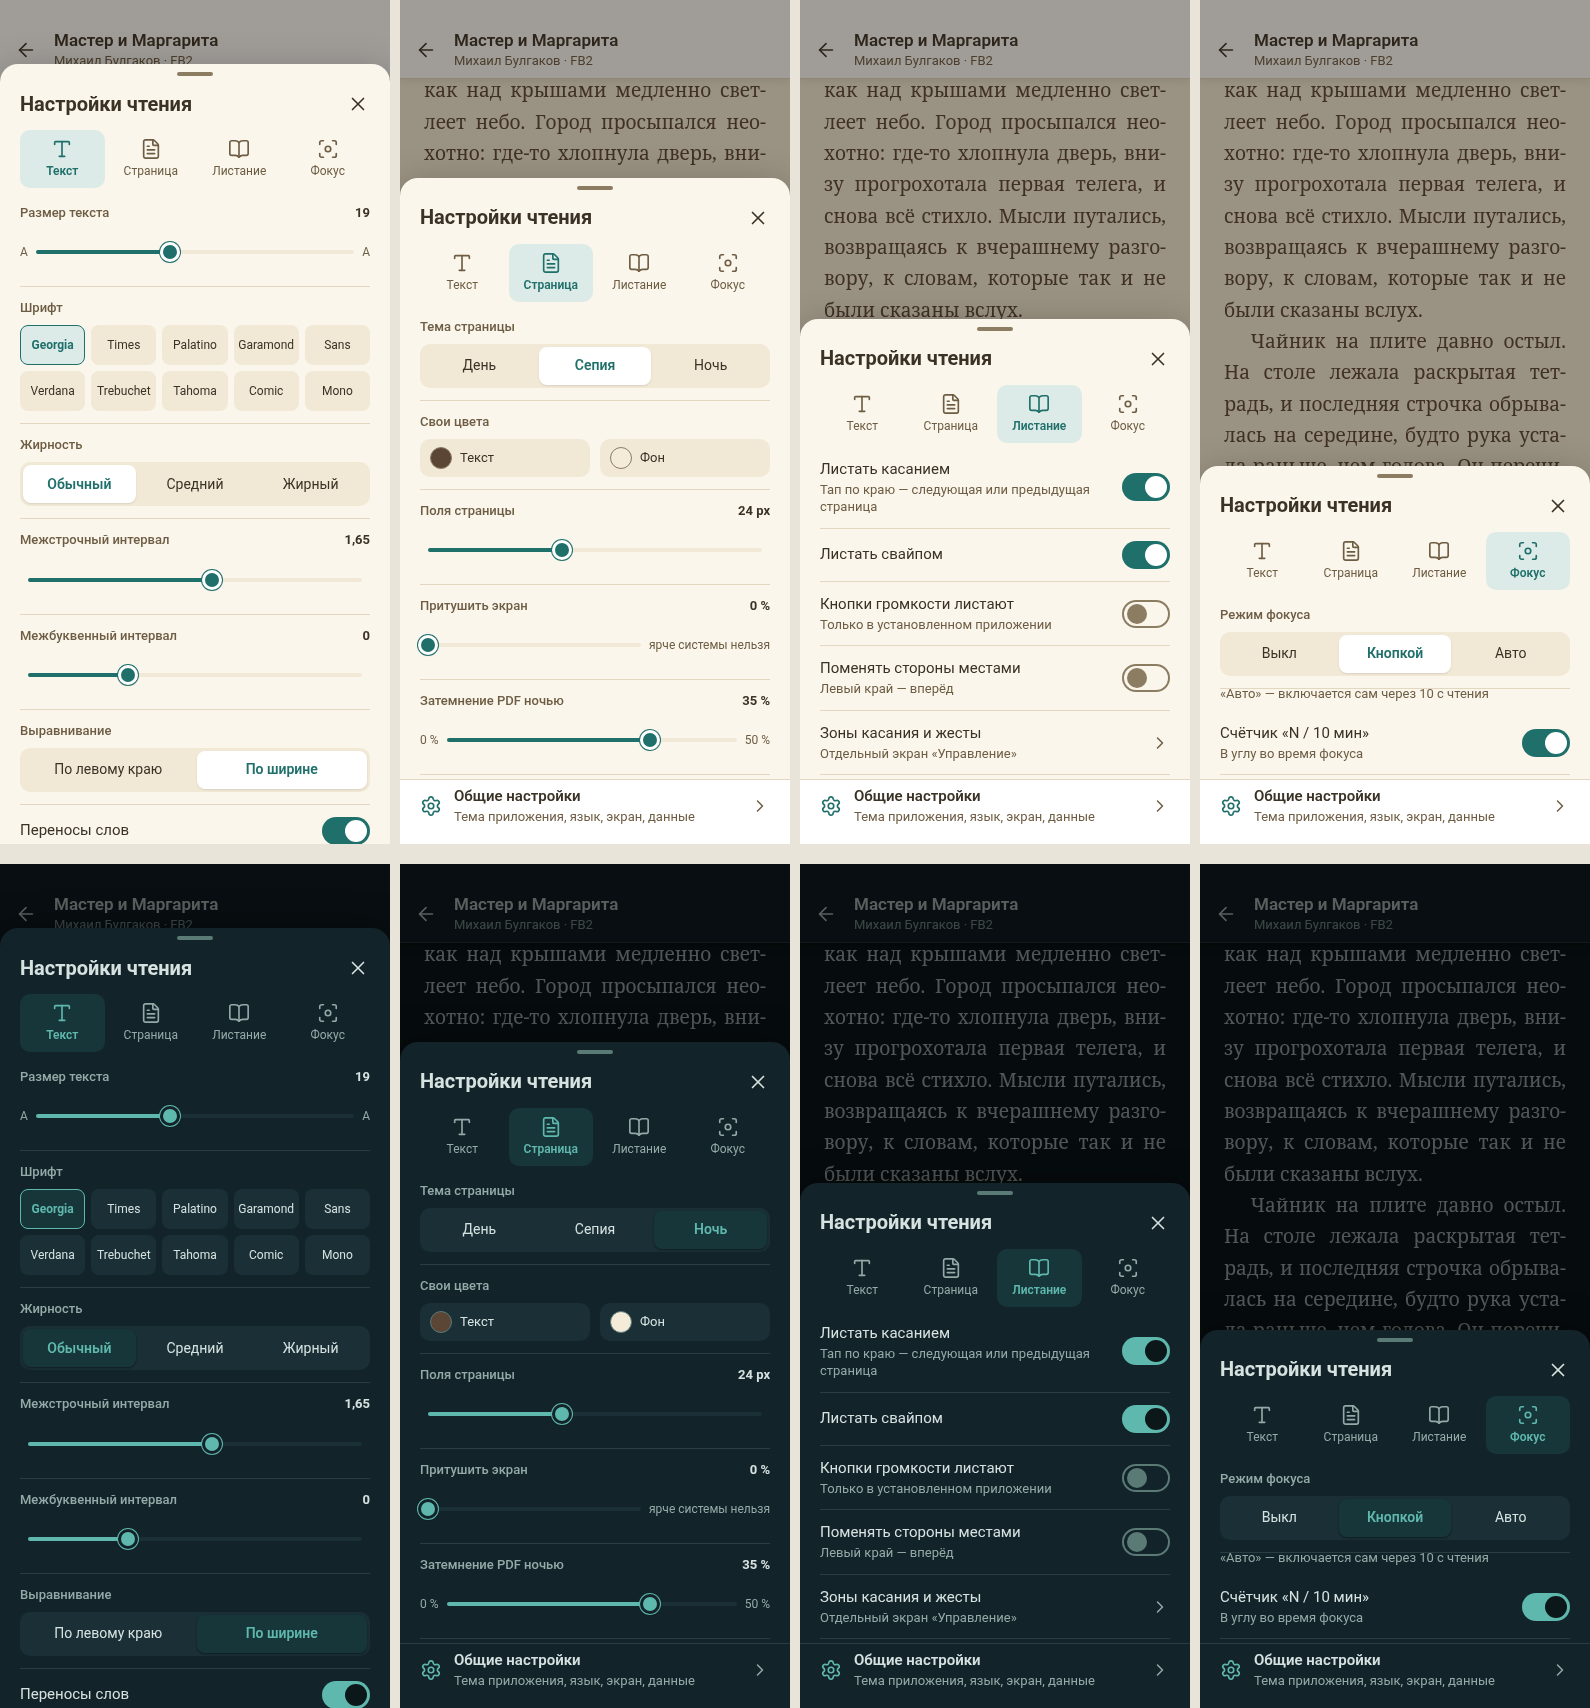
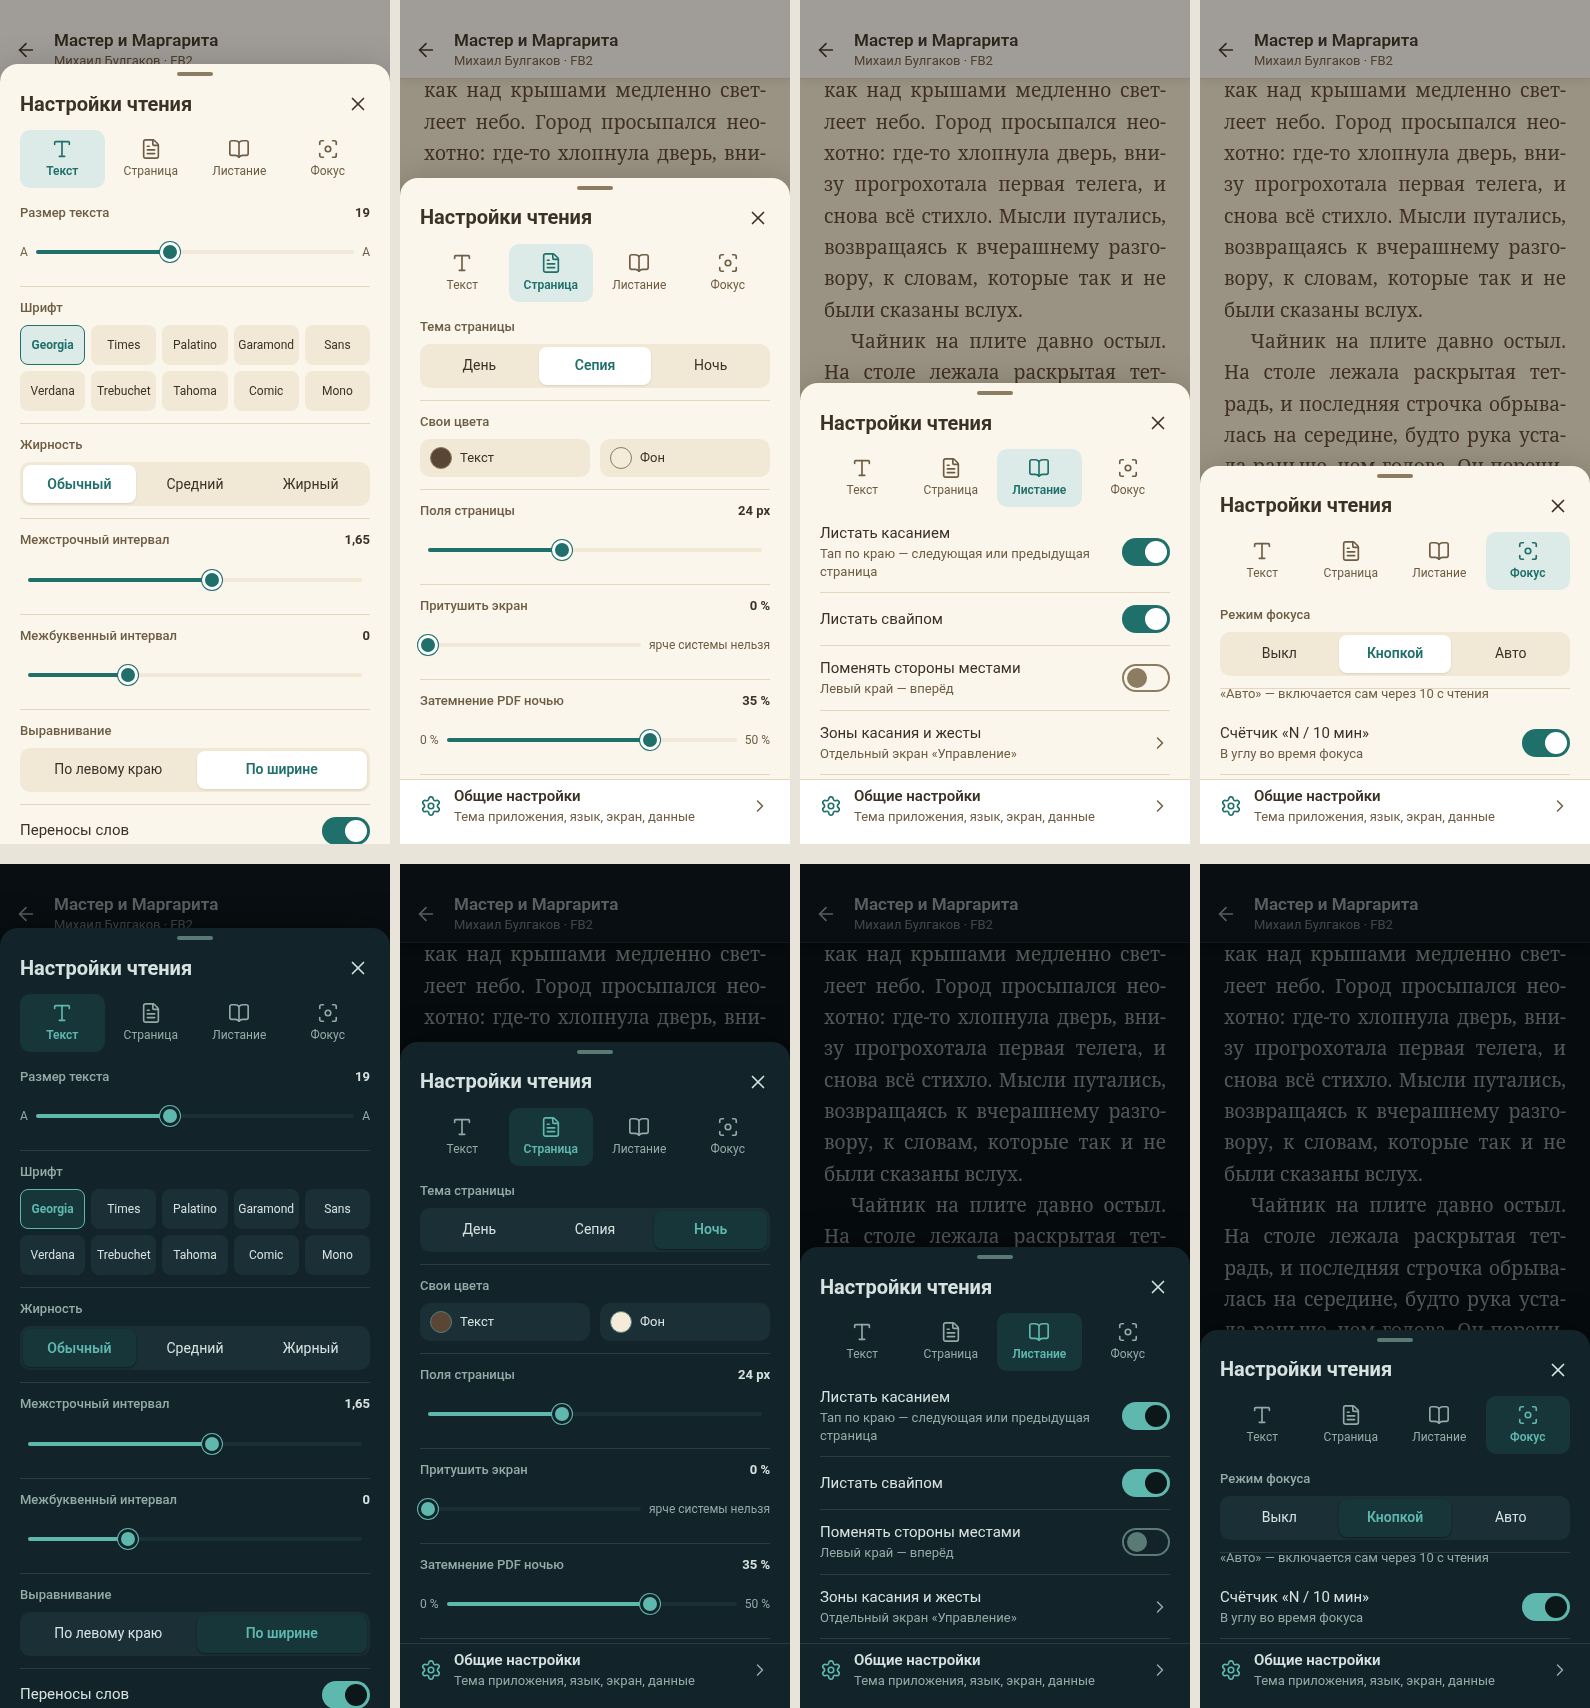
ui: убран фиктивный пункт «Кнопки громкости» (nav.btns в данных остаётся)

Changed region(s): [[0.4931, 0.1862, 0.7704, 0.3724], [0.4931, 0.6827, 0.7704, 0.8689], [0.7088, 0.7758, 0.7396, 0.8999]]

diff --git a/handoff/stage1-final/src/sf-tab-nav-day.html b/handoff/stage1-final/src/sf-tab-nav-day.html
@@ -43,7 +43,7 @@
   <path d="M17 3h2a2 2 0 0 1 2 2v2" />
   <path d="M21 17v2a2 2 0 0 1-2 2h-2" />
   <path d="M7 21H5a2 2 0 0 1-2-2v-2" />
-</svg><span style="font-size:0.75rem">Фокус</span></div></div><div class="sec srow"><div class="tx">Листать касанием<small>Тап по краю — следующая или предыдущая страница</small></div><div class="tg"></div></div><div class="sec srow"><div class="tx">Листать свайпом</div><div class="tg"></div></div><div class="sec srow"><div class="tx">Кнопки громкости листают<small>Только в установленном приложении</small></div><div class="tg off"></div></div><div class="sec srow"><div class="tx">Поменять стороны местами<small>Левый край — вперёд</small></div><div class="tg off"></div></div><div class="sec srow"><div class="tx">Зоны касания и жесты<small>Отдельный экран «Управление»</small></div><span class="mut"><svg class="i" width="20" height="20" viewBox="0 0 24 24" fill="none" stroke="currentColor" stroke-width="1.8" stroke-linecap="round" stroke-linejoin="round">
+</svg><span style="font-size:0.75rem">Фокус</span></div></div><div class="sec srow"><div class="tx">Листать касанием<small>Тап по краю — следующая или предыдущая страница</small></div><div class="tg"></div></div><div class="sec srow"><div class="tx">Листать свайпом</div><div class="tg"></div></div><div class="sec srow"><div class="tx">Поменять стороны местами<small>Левый край — вперёд</small></div><div class="tg off"></div></div><div class="sec srow"><div class="tx">Зоны касания и жесты<small>Отдельный экран «Управление»</small></div><span class="mut"><svg class="i" width="20" height="20" viewBox="0 0 24 24" fill="none" stroke="currentColor" stroke-width="1.8" stroke-linecap="round" stroke-linejoin="round">
   <path d="m9 18 6-6-6-6" />
 </svg></span></div><div class="srow" style="margin:4px -20px -24px;padding:6px 20px 18px;border-top:1px solid var(--rq-line);background:var(--rq-surface)"><span style="color:var(--rq-accent-text)"><svg class="i" width="22" height="22" viewBox="0 0 24 24" fill="none" stroke="currentColor" stroke-width="1.8" stroke-linecap="round" stroke-linejoin="round">
   <path d="M9.671 4.136a2.34 2.34 0 0 1 4.659 0 2.34 2.34 0 0 0 3.319 1.915 2.34 2.34 0 0 1 2.33 4.033 2.34 2.34 0 0 0 0 3.831 2.34 2.34 0 0 1-2.33 4.033 2.34 2.34 0 0 0-3.319 1.915 2.34 2.34 0 0 1-4.659 0 2.34 2.34 0 0 0-3.32-1.915 2.34 2.34 0 0 1-2.33-4.033 2.34 2.34 0 0 0 0-3.831A2.34 2.34 0 0 1 6.35 6.051a2.34 2.34 0 0 0 3.319-1.915" />

diff --git a/handoff/stage1-final/src/sf-tab-nav-night.html b/handoff/stage1-final/src/sf-tab-nav-night.html
@@ -51,7 +51,7 @@
   <path d="M17 3h2a2 2 0 0 1 2 2v2" />
   <path d="M21 17v2a2 2 0 0 1-2 2h-2" />
   <path d="M7 21H5a2 2 0 0 1-2-2v-2" />
-</svg><span style="font-size:0.75rem">Фокус</span></div></div><div class="sec srow"><div class="tx">Листать касанием<small>Тап по краю — следующая или предыдущая страница</small></div><div class="tg"></div></div><div class="sec srow"><div class="tx">Листать свайпом</div><div class="tg"></div></div><div class="sec srow"><div class="tx">Кнопки громкости листают<small>Только в установленном приложении</small></div><div class="tg off"></div></div><div class="sec srow"><div class="tx">Поменять стороны местами<small>Левый край — вперёд</small></div><div class="tg off"></div></div><div class="sec srow"><div class="tx">Зоны касания и жесты<small>Отдельный экран «Управление»</small></div><span class="mut"><svg class="i" width="20" height="20" viewBox="0 0 24 24" fill="none" stroke="currentColor" stroke-width="1.8" stroke-linecap="round" stroke-linejoin="round">
+</svg><span style="font-size:0.75rem">Фокус</span></div></div><div class="sec srow"><div class="tx">Листать касанием<small>Тап по краю — следующая или предыдущая страница</small></div><div class="tg"></div></div><div class="sec srow"><div class="tx">Листать свайпом</div><div class="tg"></div></div><div class="sec srow"><div class="tx">Поменять стороны местами<small>Левый край — вперёд</small></div><div class="tg off"></div></div><div class="sec srow"><div class="tx">Зоны касания и жесты<small>Отдельный экран «Управление»</small></div><span class="mut"><svg class="i" width="20" height="20" viewBox="0 0 24 24" fill="none" stroke="currentColor" stroke-width="1.8" stroke-linecap="round" stroke-linejoin="round">
   <path d="m9 18 6-6-6-6" />
 </svg></span></div><div class="srow" style="margin:4px -20px -24px;padding:6px 20px 18px;border-top:1px solid var(--rq-line);background:var(--rq-surface)"><span style="color:var(--rq-accent-text)"><svg class="i" width="22" height="22" viewBox="0 0 24 24" fill="none" stroke="currentColor" stroke-width="1.8" stroke-linecap="round" stroke-linejoin="round">
   <path d="M9.671 4.136a2.34 2.34 0 0 1 4.659 0 2.34 2.34 0 0 0 3.319 1.915 2.34 2.34 0 0 1 2.33 4.033 2.34 2.34 0 0 0 0 3.831 2.34 2.34 0 0 1-2.33 4.033 2.34 2.34 0 0 0-3.319 1.915 2.34 2.34 0 0 1-4.659 0 2.34 2.34 0 0 0-3.32-1.915 2.34 2.34 0 0 1-2.33-4.033 2.34 2.34 0 0 0 0-3.831A2.34 2.34 0 0 1 6.35 6.051a2.34 2.34 0 0 0 3.319-1.915" />

diff --git a/handoff/stage1-final/src/gen_settings3.py b/handoff/stage1-final/src/gen_settings3.py
@@ -25,7 +25,7 @@ TABS = {
         + lab('Свои цвета', '<div style="display:flex;gap:10px">' + ''.join(f'<div style="flex:1;display:flex;align-items:center;gap:8px;padding:8px 10px;border-radius:10px;background:var(--rq-surface-2);font-size:13px"><i style="width:22px;height:22px;border-radius:50%;background:{c};border:1px solid var(--rq-border-strong)"></i>{t}</div>' for t,c in (('Текст','#5b4636'),('Фон','#f4ecd8'))) + '</div>')
         + sl('Поля страницы','24 px',40) + sl('Притушить экран','0 %',0,'','ярче системы нельзя') + sl('Затемнение PDF ночью','35 %',70,'0 %','50 %'),
  'nav': lambda n: tg('Листать касанием', 'Тап по краю — следующая или предыдущая страница') + tg('Листать свайпом')
-        + tg('Кнопки громкости листают', 'Только в установленном приложении', False) + tg('Поменять стороны местами', 'Левый край — вперёд', False)
+        + tg('Поменять стороны местами', 'Левый край — вперёд', False)
         + f'<div class="sec srow"><div class="tx">Зоны касания и жесты<small>Отдельный экран «Управление»</small></div><span class="mut">{ic("chevron-right",20)}</span></div>',
  'focus': lambda n: lab('Режим фокуса', seg(['Выкл','Кнопкой','Авто'],1)) + '<div class="mut" style="font-size:13px;margin:-4px 0 8px">«Авто» — включается сам через 10 с чтения</div>'
         + tg('Счётчик «N / 10 мин»', 'В углу во время фокуса'),
